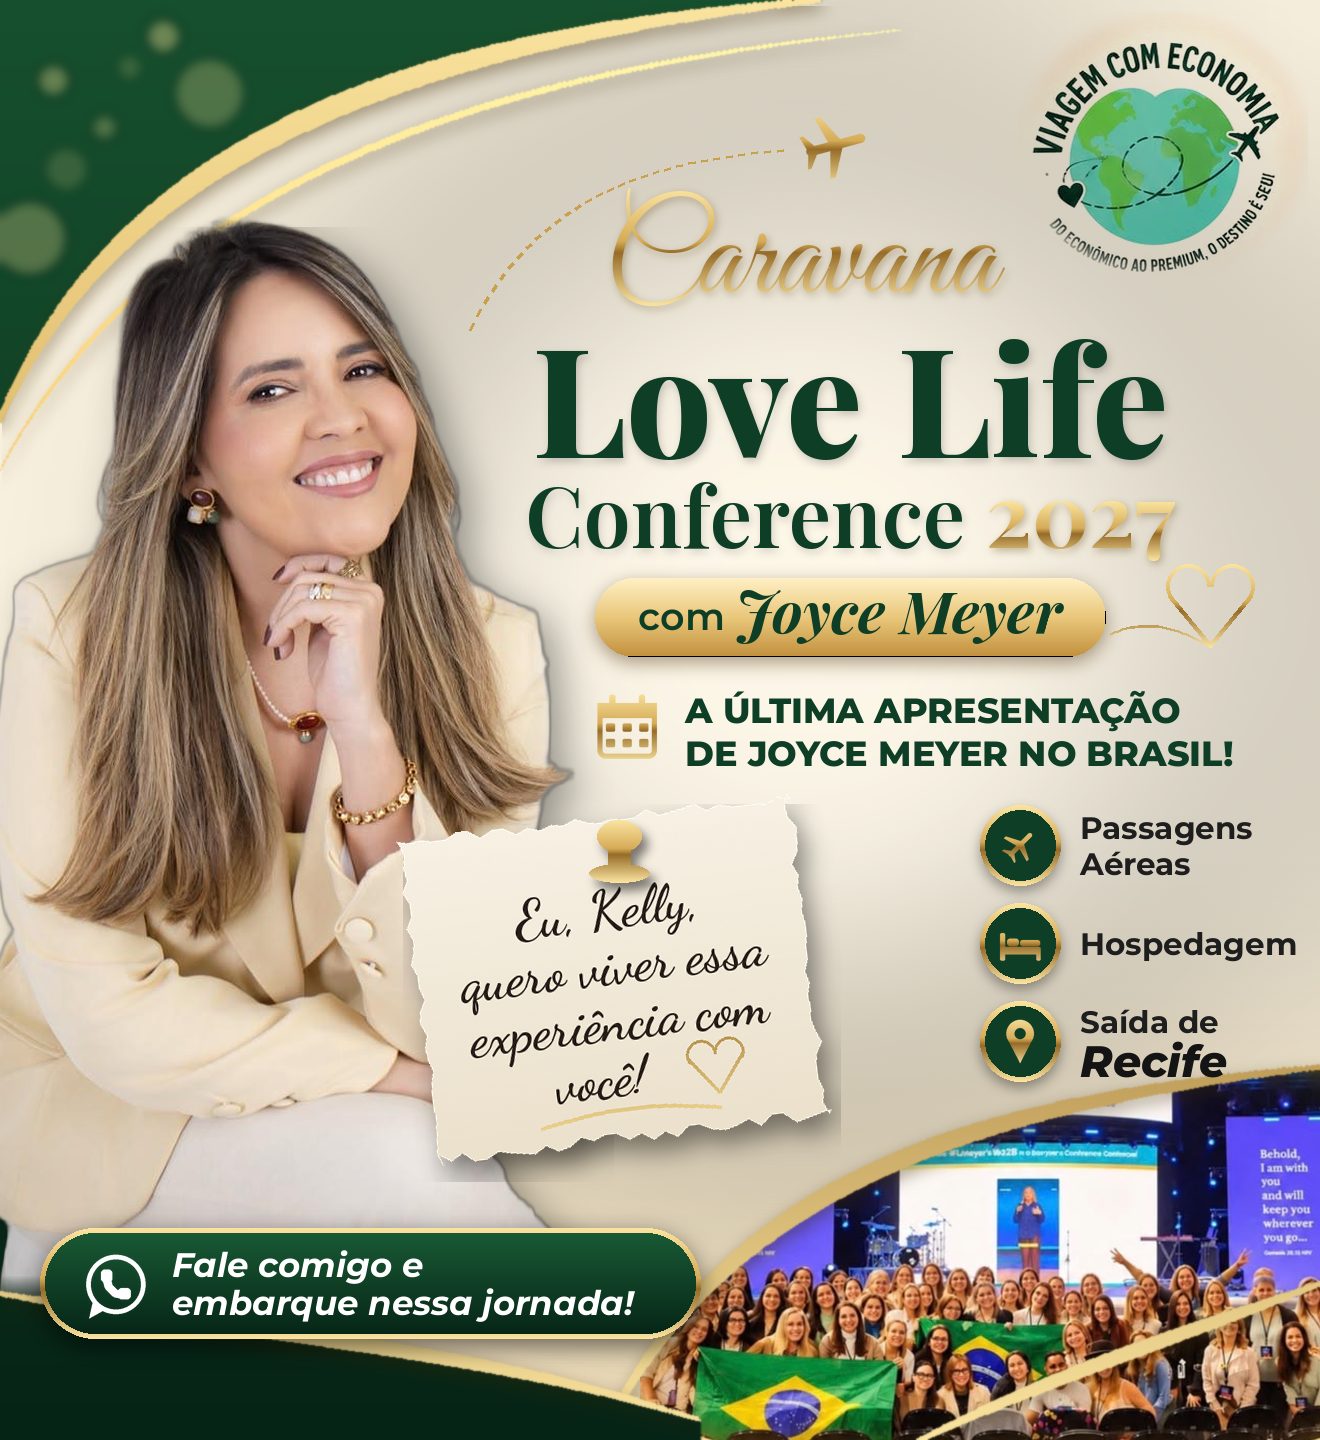
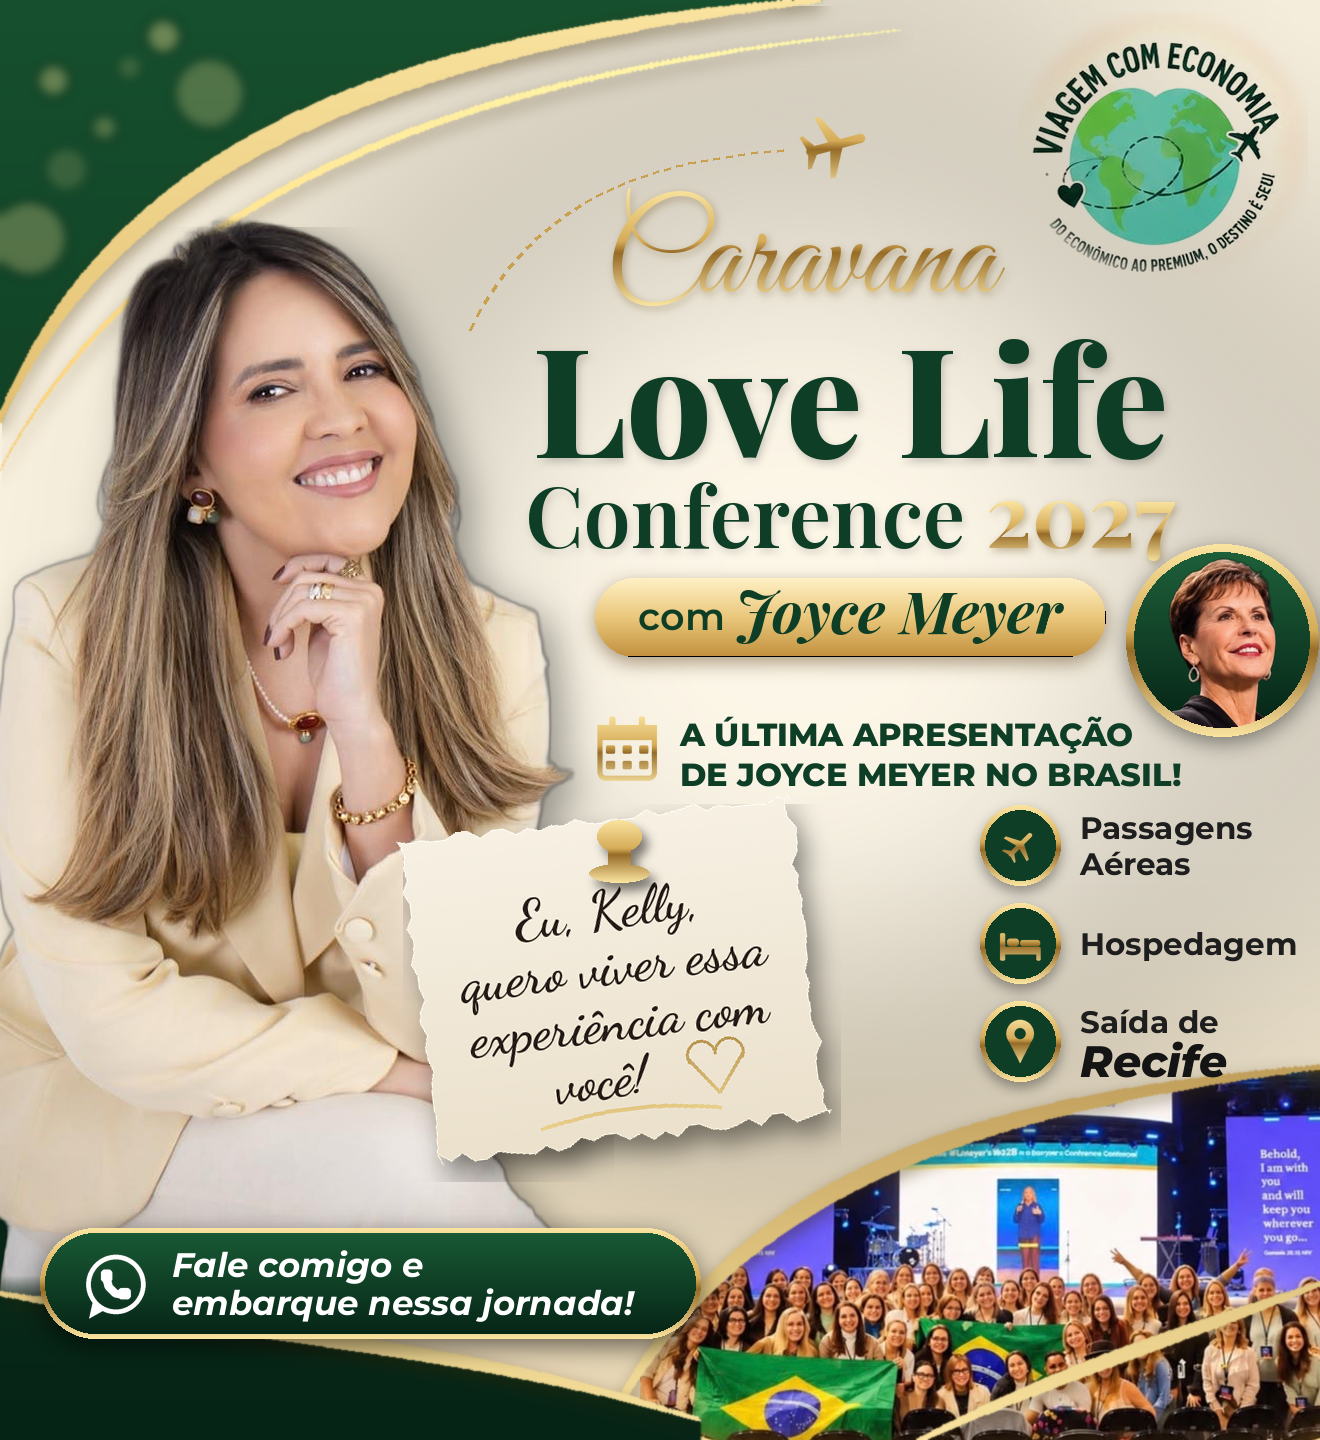
Caravana v2: add Joyce Meyer medallion next to the 'com Joyce Meyer' badge
Claude-Session: https://claude.ai/code/session_01PeFsoJEW3VKskFdZgNUYzx

Changed region(s): [[0.4348, 0.375, 1.0, 0.5625]]

diff --git a/caravana/gerar_arte_v2.py b/caravana/gerar_arte_v2.py
@@ -278,21 +278,29 @@ def main():
     d.text((tx, 630), "com ", font=f_com, fill=VERDE, anchor="ls")
     d.text((tx + wcom, 634), "Joyce Meyer", font=f_jm, fill=VERDE, anchor="ls")
 
-    # coração em contorno + traço
-    hm = Image.new("L", (W, H), 0)
-    dh = ImageDraw.Draw(hm)
-    hx, hy = 1210, 600
-    dh.arc((hx - 44, hy - 36, hx, hy + 8), 150, 360, fill=255, width=4)
-    dh.arc((hx, hy - 36, hx + 44, hy + 8), 180, 30, fill=255, width=4)
-    dh.line((hx - 41, hy - 4, hx, hy + 46, hx + 41, hy - 4), fill=255, width=4, joint="curve")
-    dh.line([(x, hy + 46 + 20 * math.sin((x - hx) / 40)) for x in range(hx - 100, hx + 1, 4)], fill=255, width=3)
-    preenche_ouro(img, hm)
+    # medalhão com a foto da Joyce Meyer (no lugar do coração)
+    mcx, mcy, mr = 1222, 640, 88
+    jo = Image.open(A("assets", "joyce_recortada.png")).convert("RGBA").crop((10, 25, 470, 485))
+    jo = jo.resize((2 * mr, 2 * mr), Image.LANCZOS)
+    fundo_m = Image.new("RGBA", jo.size)
+    fundo_m.paste(gradiente_v(*jo.size, [(0, (30, 96, 58)), (1, VERDE_D)]), (0, 0))
+    fundo_m.alpha_composite(jo)
+    circ = Image.new("L", jo.size, 0)
+    ImageDraw.Draw(circ).ellipse((0, 0, 2 * mr - 1, 2 * mr - 1), fill=255)
+    fundo_m.putalpha(circ)
+    s_ = Image.new("RGBA", (W, H), (0, 0, 0, 0))
+    ImageDraw.Draw(s_).ellipse((mcx - mr - 8, mcy - mr - 2, mcx + mr + 8, mcy + mr + 14), fill=(0, 0, 0, 110))
+    img.alpha_composite(s_.filter(ImageFilter.GaussianBlur(10)))
+    anel = Image.new("L", (W, H), 0)
+    ImageDraw.Draw(anel).ellipse((mcx - mr - 8, mcy - mr - 8, mcx + mr + 8, mcy + mr + 8), fill=255)
+    preenche_ouro(img, anel)
+    img.alpha_composite(fundo_m, (mcx - mr, mcy - mr))
 
     # calendário + frase
-    cola_mask(img, icone_mask(ic_calendario, 74), (590, 690))
-    f_b = fonte("Montserrat.ttf", 35, 800)
-    d.text((685, 710), "A ÚLTIMA APRESENTAÇÃO", font=f_b, fill=VERDE, anchor="lm")
-    d.text((685, 753), "DE JOYCE MEYER NO BRASIL!", font=f_b, fill=VERDE, anchor="lm")
+    cola_mask(img, icone_mask(ic_calendario, 74), (590, 712))
+    f_b = fonte("Montserrat.ttf", 32, 800)
+    d.text((680, 735), "A ÚLTIMA APRESENTAÇÃO", font=f_b, fill=VERDE, anchor="lm")
+    d.text((680, 775), "DE JOYCE MEYER NO BRASIL!", font=f_b, fill=VERDE, anchor="lm")
 
     # lista de benefícios
     f_l = fonte("Montserrat.ttf", 31, 700)
